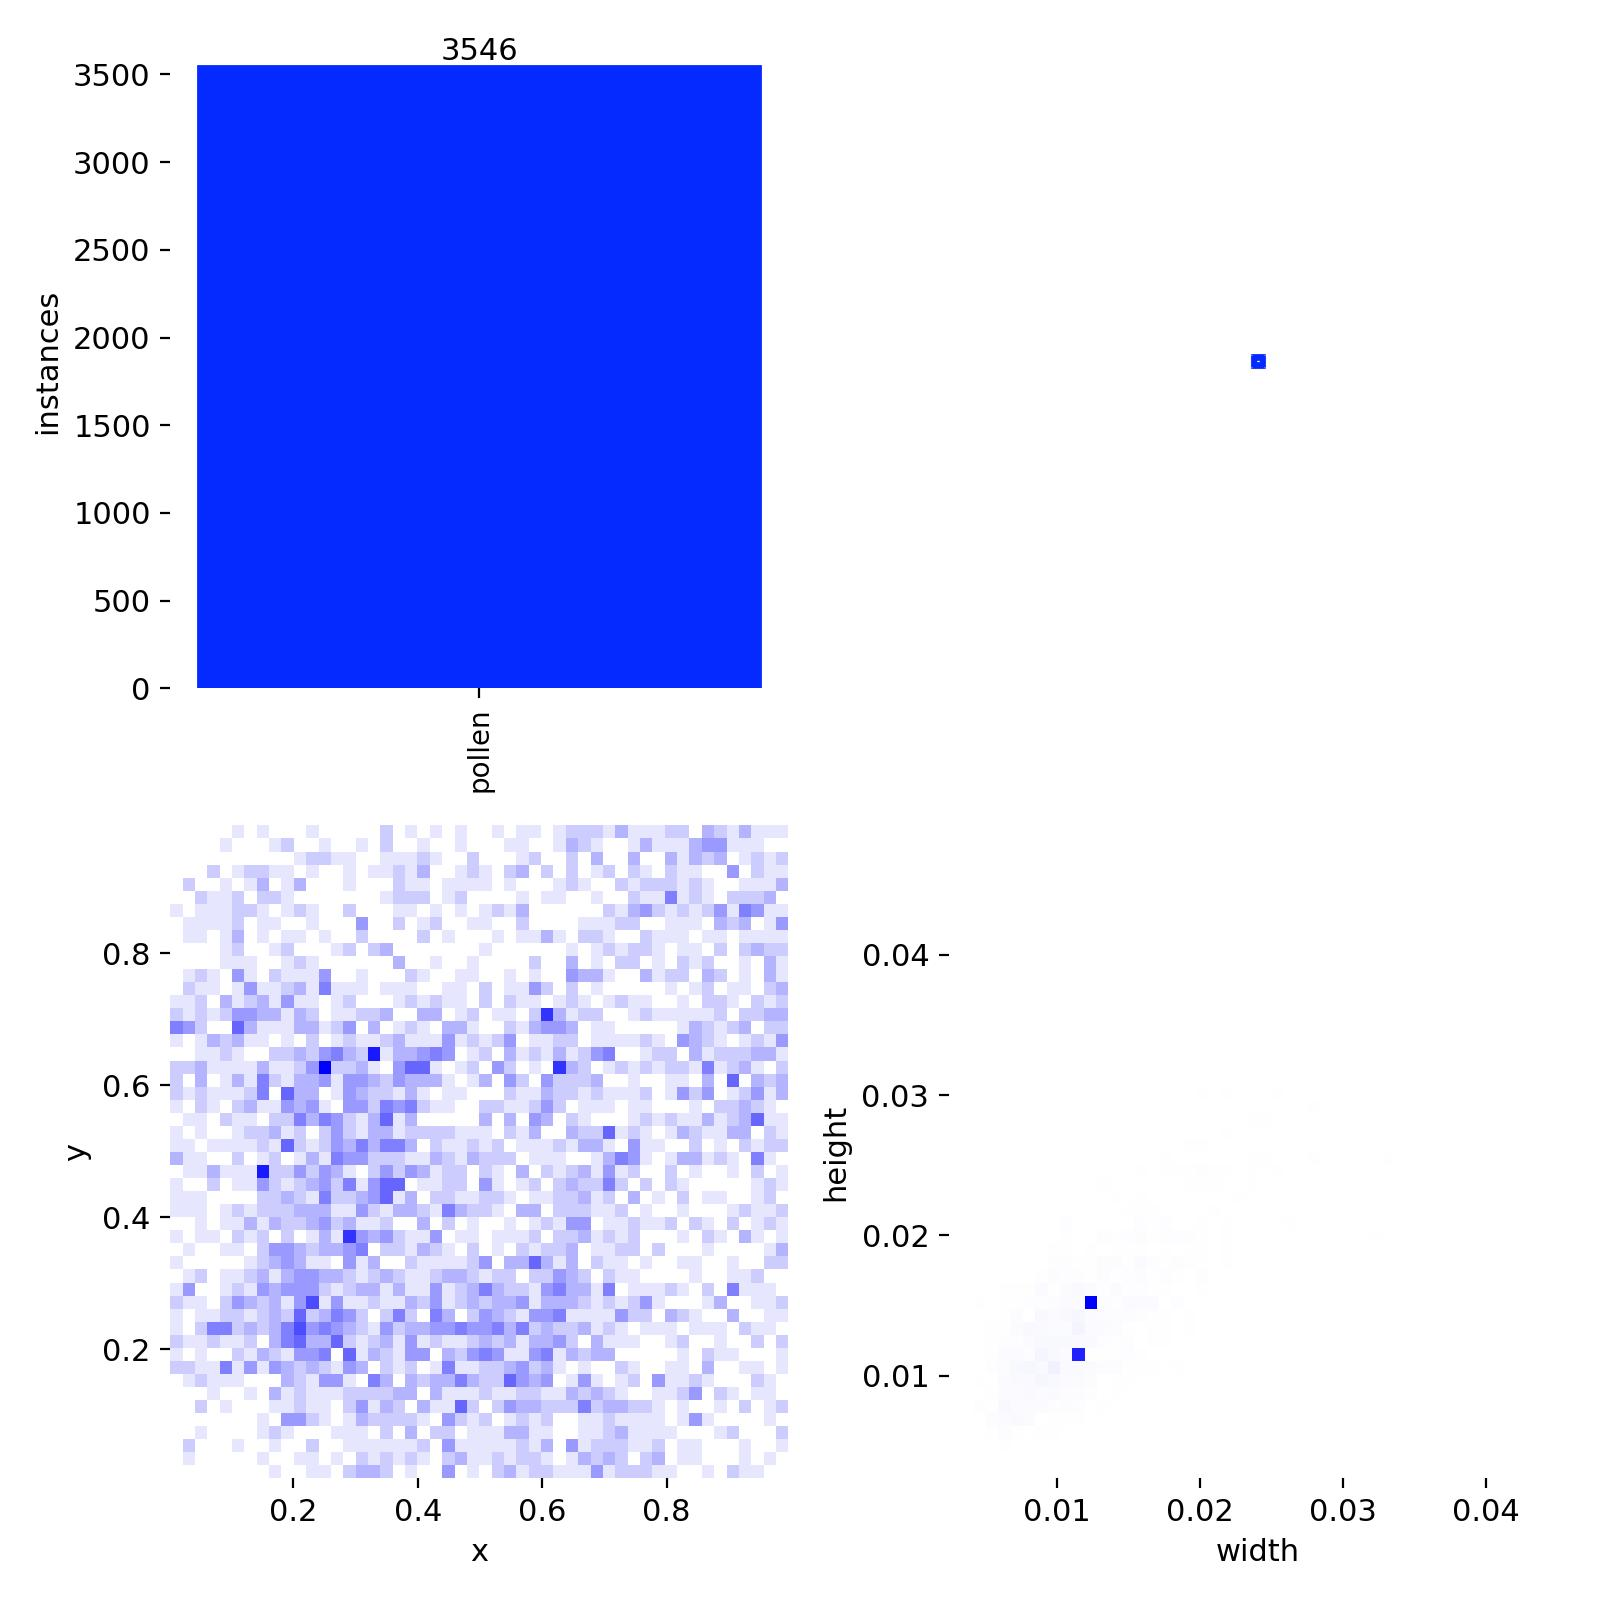
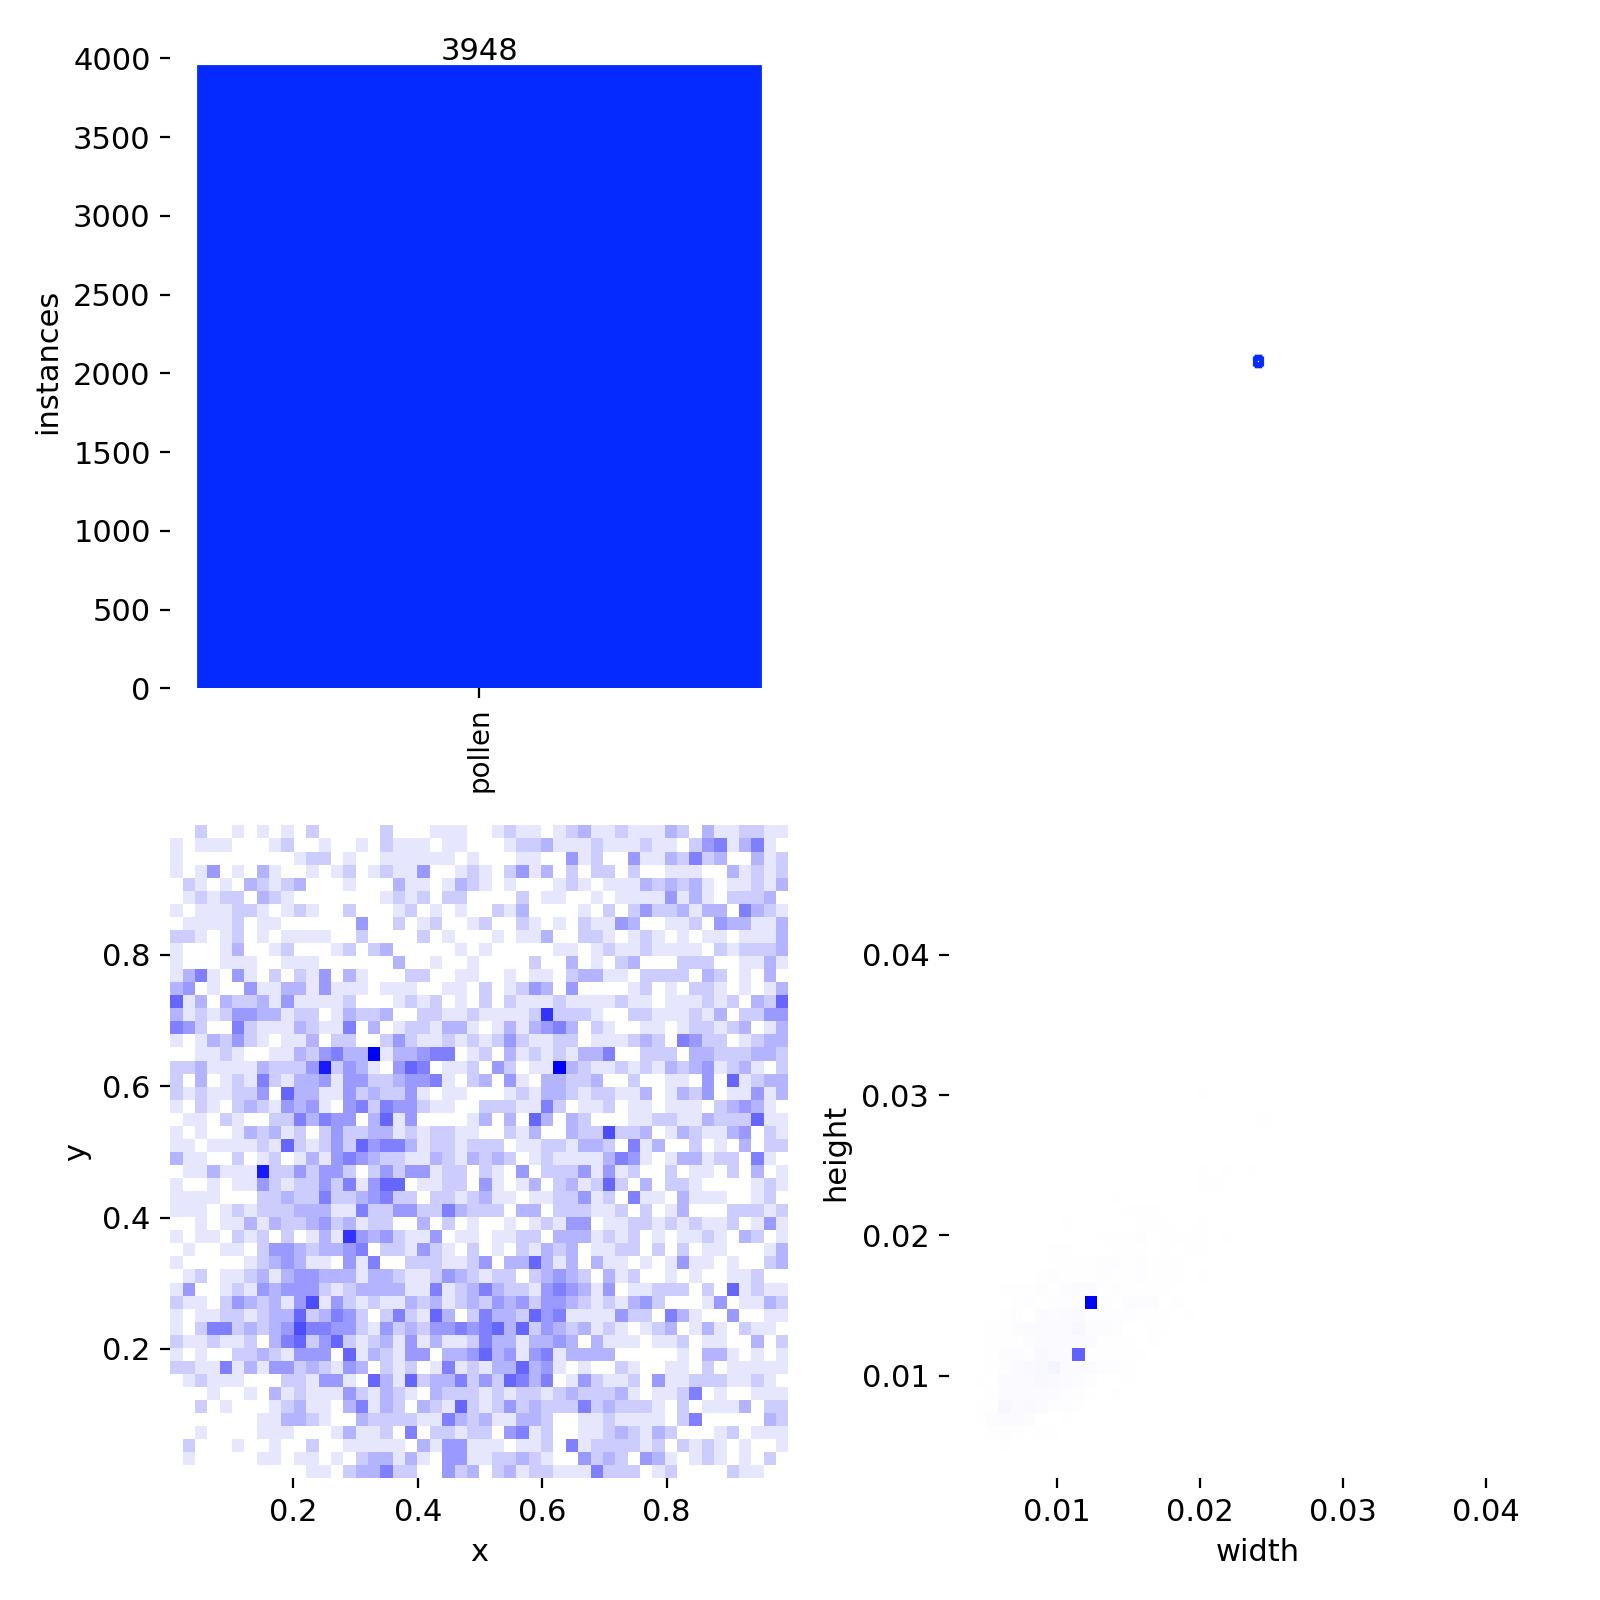
feat: implement automated pollen counting script and initialize dataset configuration

diff --git a/scripts/train.py b/scripts/train.py
@@ -111,6 +111,34 @@ def parse_args() -> argparse.Namespace:
     return parser.parse_args()
 
 
+def _generate_annotated_image_lists(dataset_root: Path) -> None:
+    """Generate train.txt and val.txt containing only images that have annotations."""
+    for split in ["train", "val"]:
+        labels_dir = dataset_root / "labels" / split
+        images_dir = dataset_root / "images" / split
+        list_file = dataset_root / f"{split}.txt"
+        
+        if not labels_dir.exists():
+            continue
+            
+        annotated_images = []
+        for label_file in labels_dir.glob("*.txt"):
+            if label_file.stat().st_size > 0:
+                # Find matching image
+                for ext in [".jpg", ".jpeg", ".png", ".tif", ".tiff", ".bmp", ".webp"]:
+                    img_path = images_dir / f"{label_file.stem}{ext}"
+                    if img_path.exists():
+                        # Write the path relative to the dataset root, or absolute
+                        # YOLO handles absolute paths perfectly
+                        annotated_images.append(str(img_path.absolute()).replace("\\", "/"))
+                        break
+                        
+        with open(list_file, "w") as f:
+            for img in annotated_images:
+                f.write(f"{img}\n")
+        print(f"[INFO] Generated {split}.txt with {len(annotated_images)} annotated images.")
+
+
 def main() -> None:
     """Entry-point: configure and launch YOLOv26 training."""
     args = parse_args()
@@ -120,6 +148,10 @@ def main() -> None:
     if not data_path.exists():
         print(f"[ERROR] Dataset config not found: {data_path}")
         sys.exit(1)
+
+    # ── Generate lists of annotated images ──────────────────────────
+    dataset_root = PROJECT_ROOT / "datasets"
+    _generate_annotated_image_lists(dataset_root)
 
     # ── Load model ──────────────────────────────────────────────────
     if args.resume:

diff --git a/scripts/count_pollen.py b/scripts/count_pollen.py
@@ -138,7 +138,7 @@ def run_inference(
         results = model.predict(
             source=str(img_path),
             conf=conf,
-            iou=0.9,  # high IOU allows heavily overlapping grains
+            iou=0.25,  # lower IOU prevents double-counting the same grain
             imgsz=imgsz,
             device=device,
             verbose=False,
